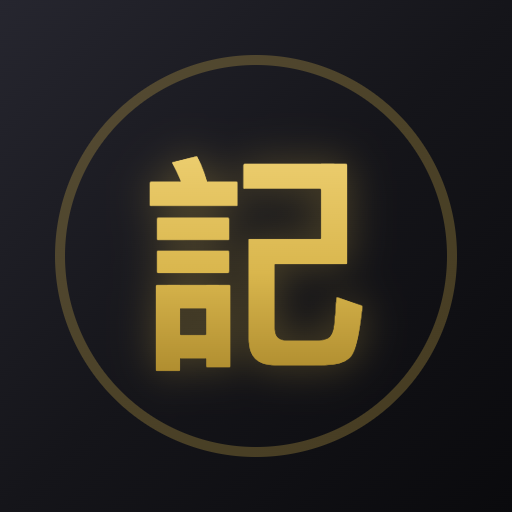
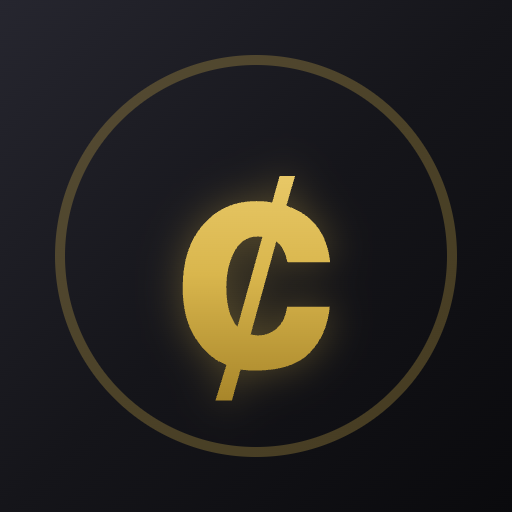
品牌更名為 Centsei
- App 名稱、主畫面名稱、標題、large title 全部改為 Centsei
- 新圖示:金色「¢」(呼應 cents/Centsei)
- 備份檔名改 centsei-*;分享標題改 Centsei
- SW 快取版本 v10

Changed region(s): [[0.2812, 0.3125, 0.7188, 0.7812]]

diff --git a/app.js b/app.js
@@ -6,7 +6,7 @@ import {
 // ---------- 多語系 ----------
 const STRINGS = {
   zh: {
-    appTitle: '日常記帳',
+    appTitle: 'Centsei',
     categories: '分類',
     done: '完成',
     cancel: '取消',
@@ -96,7 +96,7 @@ const STRINGS = {
     lastBackup: (n) => `上次備份:${n} 天前`,
     lastBackupToday: '上次備份:今天',
     lastBackupNever: '尚未備份',
-    shareTitle: '日常記帳備份',
+    shareTitle: 'Centsei 備份',
     // 雲端同步
     syncSection: '雲端同步',
     syncOn: '已開啟',
@@ -125,7 +125,7 @@ const STRINGS = {
     langBtn: 'EN',
   },
   en: {
-    appTitle: 'Daily Ledger',
+    appTitle: 'Centsei',
     categories: 'Categories',
     done: 'Done',
     cancel: 'Cancel',
@@ -217,7 +217,7 @@ const STRINGS = {
     lastBackup: (n) => `Last backup: ${n} day${n === 1 ? '' : 's'} ago`,
     lastBackupToday: 'Last backup: today',
     lastBackupNever: 'Never backed up',
-    shareTitle: 'Daily Ledger backup',
+    shareTitle: 'Centsei backup',
     // Cloud sync
     syncSection: 'Cloud Sync',
     syncOn: 'On',
@@ -250,7 +250,7 @@ const STRINGS = {
 let lang = localStorage.getItem('lang') === 'en' ? 'en' : 'zh';
 
 // App 版本(與 sw.js 的 VERSION 同步,顯示在設定頁)
-const APP_VERSION = 'v9';
+const APP_VERSION = 'v10';
 
 function t(key, ...args) {
   const v = STRINGS[lang][key];
@@ -1325,7 +1325,7 @@ async function exportBackup() {
     recurring,
   };
   const ok = await shareOrDownload(
-    `daily-ledger-backup-${todayStr()}.json`,
+    `centsei-backup-${todayStr()}.json`,
     JSON.stringify(payload, null, 2),
     'application/json'
   );
@@ -1349,7 +1349,7 @@ async function exportCsv() {
     );
   // 加 BOM 讓 Excel 正確辨識 UTF-8
   const csv = '' + [header.join(','), ...lines].join('\n');
-  await shareOrDownload(`daily-ledger-${todayStr()}.csv`, csv, 'text/csv');
+  await shareOrDownload(`centsei-${todayStr()}.csv`, csv, 'text/csv');
 }
 
 // 設定頁:上次備份狀態

diff --git a/index.html b/index.html
@@ -4,14 +4,14 @@
   <meta charset="UTF-8">
   <meta name="viewport" content="width=device-width, initial-scale=1, viewport-fit=cover">
   <meta name="theme-color" content="#000000">
-  <title>日常記帳</title>
+  <title>Centsei</title>
   <link rel="manifest" href="manifest.json">
   <link rel="icon" type="image/png" href="icons/icon-192.png">
   <link rel="apple-touch-icon" href="icons/apple-touch-icon.png">
   <meta name="apple-mobile-web-app-capable" content="yes">
   <meta name="mobile-web-app-capable" content="yes">
   <meta name="apple-mobile-web-app-status-bar-style" content="black-translucent">
-  <meta name="apple-mobile-web-app-title" content="記帳">
+  <meta name="apple-mobile-web-app-title" content="Centsei">
   <link rel="stylesheet" href="style.css">
 </head>
 <body>
@@ -20,7 +20,7 @@
       <button id="lang-btn" class="nav-btn left" type="button">EN</button>
       <button id="cat-manage-btn" class="nav-btn" type="button" data-i18n="settings">設定</button>
     </div>
-    <h1 class="large-title" data-i18n="appTitle">日常記帳</h1>
+    <h1 class="large-title" data-i18n="appTitle">Centsei</h1>
   </header>
 
   <!-- 明細 -->

diff --git a/sw.js b/sw.js
@@ -1,6 +1,6 @@
 // Service Worker:App 殼層快取,離線也能開
 // 改版時把 VERSION +1,舊快取會在 activate 時清掉
-const VERSION = 'daily-ledger-v9';
+const VERSION = 'daily-ledger-v10';
 
 const SHELL = [
   './',